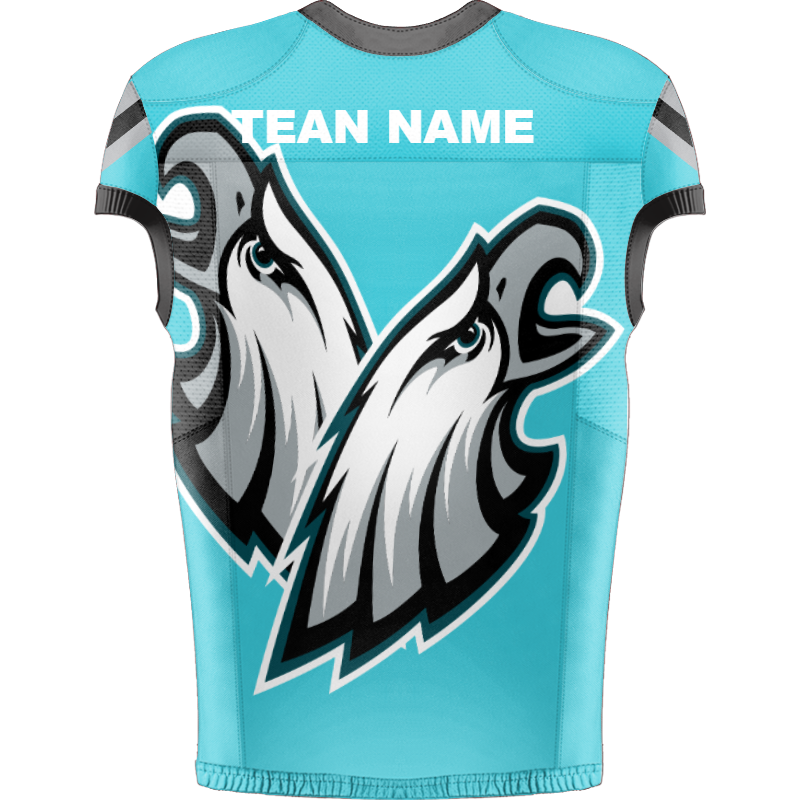
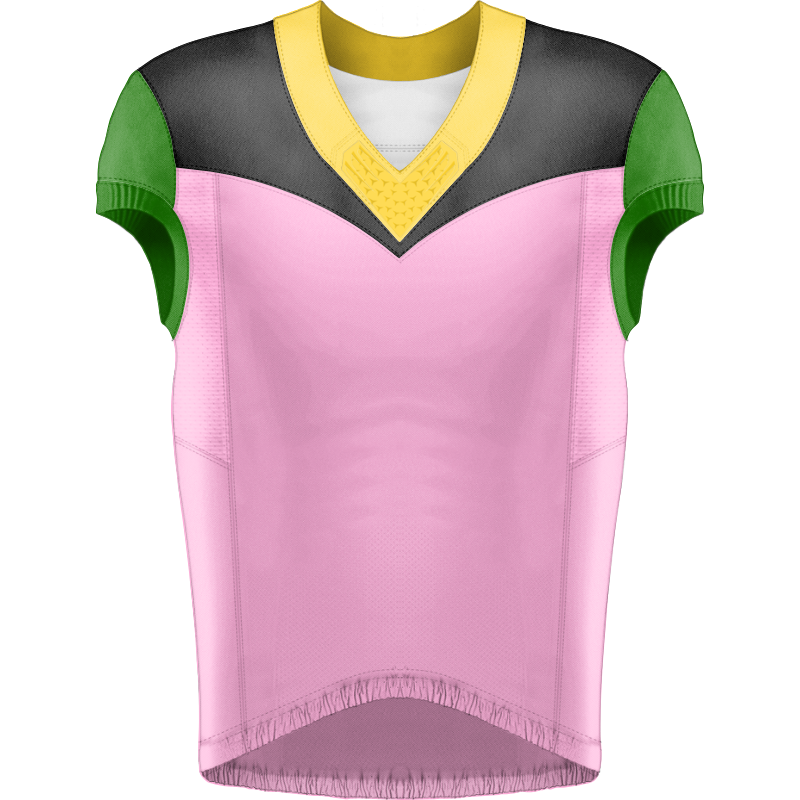
updates

diff --git a/public/js/customizer-color.js b/public/js/customizer-color.js
@@ -294,7 +294,14 @@ console.log('FILE B LOADED');
             btn.style.color = '#fff';
             btn.style.textShadow = '0 0 4px rgba(0,0,0,.6)';
         }
-
+if (window.customColorNames && window.customColorNames[color.toUpperCase()]) {
+    const customName = window.customColorNames[color.toUpperCase()];
+    btn.innerHTML = `
+        <span style="font-size:28px;font-weight:800;line-height:1.2;display:block;">${customName.charAt(0).toUpperCase()}</span>
+        <span style="font-size:13px;font-weight:600;line-height:1.3;display:block;word-break:break-word;">${customName}</span>
+    `;
+    return;
+}
         const colorObj = window.backendColors?.find(
             c => c.code.toUpperCase() === color.toUpperCase()
         );
@@ -1070,5 +1077,49 @@ window.pickManualStopColor = function (index) {
     applyGradientRealtime();
 };
 
+window.customColorNames = window.customColorNames || {};
 
+window.addCustomColorToPalette = function () {
+    const picker = document.getElementById('customColorPicker');
+    const nameInput = document.getElementById('customColorName');
+
+    if (!picker || !nameInput) return;
+
+    const color = picker.value.toUpperCase();
+    const name = nameInput.value.trim();
+
+    if (!name) {
+        alert('Please enter color name');
+        return;
+    }
+
+    if (paletteSelectedColors.includes(color)) {
+        alert('This color already selected');
+        return;
+    }
+
+    window.customColorNames[color] = name;
+    paletteSelectedColors.push(color);
+
+    const grid = document.querySelector('.inline-color-grid');
+    const customPanel = document.querySelector('.custom-color-panel');
+
+    const item = document.createElement('div');
+    item.className = 'inline-color-item custom-added-color';
+    item.innerHTML = `
+        <div class="color-box modern-box selected"
+             style="background:${color};display:flex;align-items:center;justify-content:center;color:${getContrastColorLocal(color)};font-weight:bold;">
+            ✔
+        </div>
+        <div class="color-name">${name}</div>
+    `;
+
+    item.querySelector('.color-box').onclick = function () {
+        togglePaletteColor(this, color);
+    };
+
+    grid.insertBefore(item, customPanel);
+
+    nameInput.value = '';
+};
 })();

diff --git a/resources/views/admin/models/partials/color.blade.php b/resources/views/admin/models/partials/color.blade.php
@@ -41,6 +41,24 @@
                         <div class="color-name">{{ $c->name }}</div>
                     </div>
                 @endforeach
+             <div class="custom-color-panel">
+    <div class="custom-title">Other / Custom Color</div>
+
+    <div class="custom-picker-row">
+        <input type="color" id="customColorPicker" value="#00c853">
+
+        <input type="text"
+               id="customColorName"
+               placeholder="Color name"
+               class="custom-color-name">
+    </div>
+
+    <button type="button" class="add-custom-color-btn" onclick="addCustomColorToPalette()">
+        + Add This Color
+    </button>
+
+    <div id="customAddedColors" class="custom-added-colors"></div>
+</div>
             </div>
 
             <div class="inline-color-selector-footer">
@@ -583,7 +601,71 @@
         top: 8px;
         transform: translate(-50%, 0);
     }
+.custom-color-panel {
+    grid-column: 1 / -1;
+    border: 1px dashed #999;
+    border-radius: 8px;
+    padding: 10px;
+    margin-top: 8px;
+    background: #f7f7f7;
+}
 
+.custom-title {
+    font-size: 13px;
+    font-weight: 700;
+    margin-bottom: 8px;
+}
+
+.custom-picker-row {
+    display: flex;
+    gap: 8px;
+    align-items: center;
+}
+
+#customColorPicker {
+    width: 58px;
+    height: 38px;
+    border: none;
+    background: transparent;
+    cursor: pointer;
+}
+
+.custom-color-name {
+    flex: 1;
+    height: 36px;
+    border: 1px solid #ccc;
+    border-radius: 6px;
+    padding: 0 8px;
+    font-size: 12px;
+}
+
+.add-custom-color-btn {
+    width: 100%;
+    margin-top: 8px;
+    padding: 9px;
+    border: none;
+    border-radius: 6px;
+    background: #000;
+    color: #fff;
+    font-weight: 700;
+    cursor: pointer;
+}
+
+.custom-added-colors {
+    display: flex;
+    gap: 8px;
+    flex-wrap: wrap;
+    margin-top: 8px;
+}
+
+.custom-added-color {
+    text-align: center;
+    font-size: 10px;
+}
+
+.custom-added-color .color-box {
+    margin: 0 auto 3px;
+}
     @media (max-width: 600px) {
         .gradient-main-row {
             flex-direction: column;